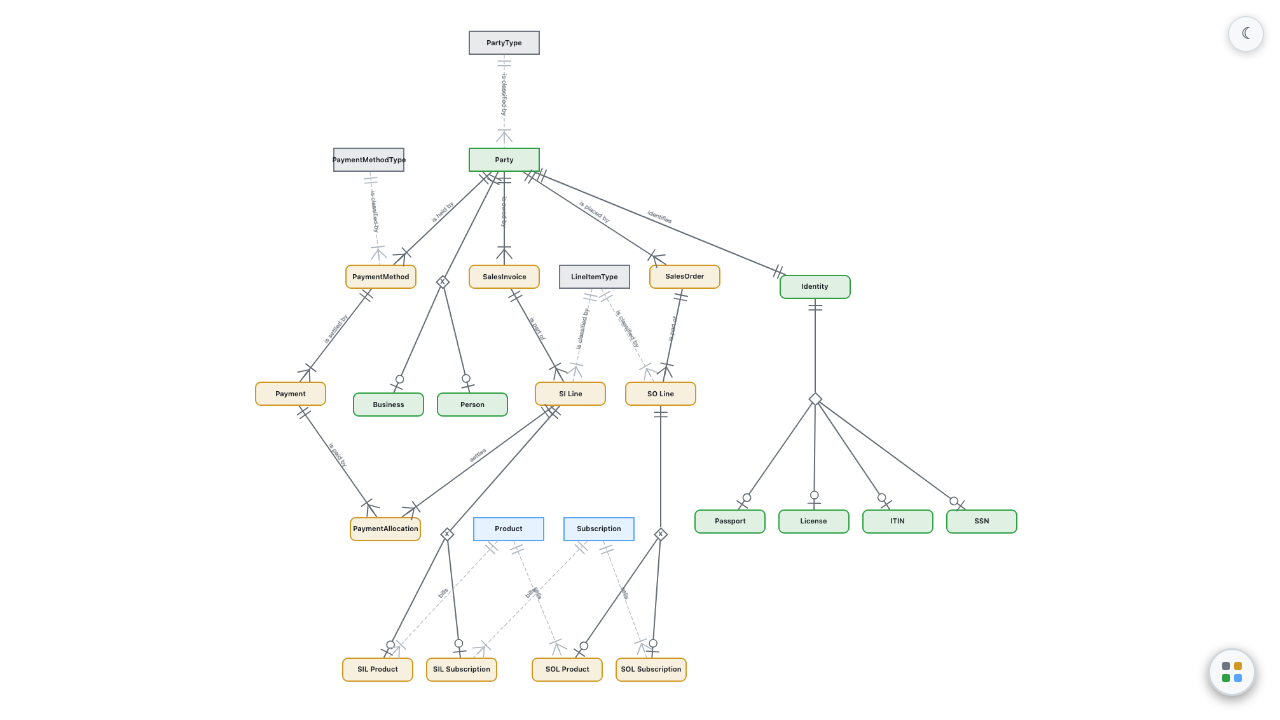
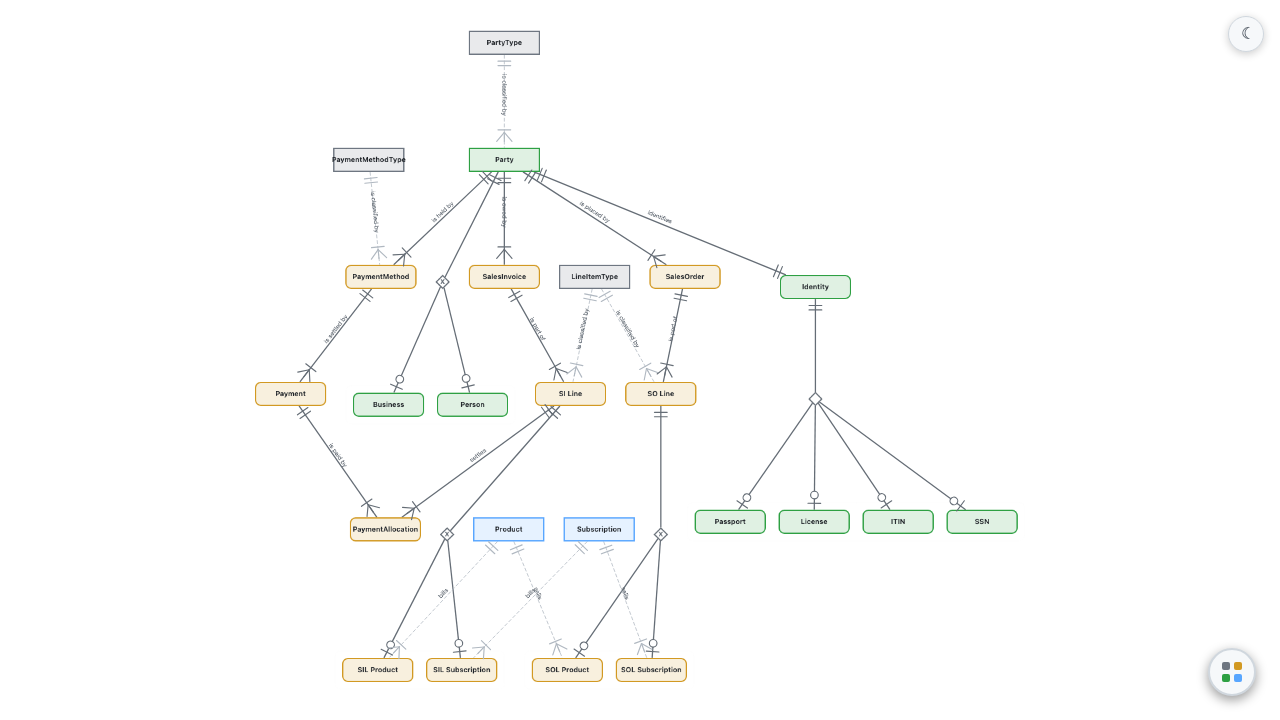
feat(cli): wire dict + graph subcommands; compile binary
Wires the dict and graph generators into the CLI's main() with
required -o (output path) and optional --theme (dark|light, default
dark) flags. Both subcommands validate their inputs and exit 1 with a
clear error on missing -o.

  derek serve <dir>
  derek dict <dir> -o out.html [--theme dark|light]
  derek graph <dir> -o out.html [--theme dark|light]

The React app bundle is embedded into the compiled binary via
src/generators/embedded-bundle.ts, which uses Bun's
`import x from "./path" with { type: "file" }` attribute. At runtime,
the embedded files are read via Bun.file(...).text(). The graph
generator now accepts either a bundleDir string (existing dev path)
or a BundleContent { html, js, css } object (new CLI path) — both
tests still pass.

Two build stages compose via package.json:

  bun run build:bundle      # bun build src/index.html → dist/static/
  bun run build:stable-names # rename index-*.js → index.js (and css)
  bun run build:cli         # all of the above + bun build --compile

Critical fix: src/server.ts replaced
`import.meta.path === Bun.main` with `import.meta.main` because in a
compiled binary all bundled modules share the same $bunfs path,
making the old guard always-true and accidentally starting a server
when running dict or graph.

7 binary tests with 17 assertions in tmp/test-cli-binary.ts confirm
all three subcommands work in the compiled binary, including
--help, missing -o exit-1 behavior, /api/model response, and graph
[…]

diff --git a/tmp/test-cli-binary.ts b/tmp/test-cli-binary.ts
@@ -1,0 +1,153 @@
+/**
+ * Integration tests for the compiled derek binary.
+ *
+ * WHY: The binary is the primary artifact of CP-7. These tests verify all three
+ * subcommands work after compile — no dev-mode fallbacks, no filesystem assumptions.
+ *
+ * Must be run AFTER `bun run build:cli` has produced ./dist/derek.
+ */
+
+import { test, expect, afterAll } from 'bun:test';
+import { existsSync } from 'fs';
+import { join } from 'path';
+
+// Resolve paths relative to the project root (worktree root is two dirs up from tmp/)
+const ROOT = join(import.meta.dir, '..');
+const BINARY = join(ROOT, 'dist', 'derek');
+const MODELS = join(ROOT, 'models');
+const OUT_DICT = join(ROOT, 'tmp', 'out-binary-dict.html');
+const OUT_GRAPH = join(ROOT, 'tmp', 'out-binary-graph.html');
+
+// ──────────────────────────────────────────────────────────────────────────────
+// Helper
+// ──────────────────────────────────────────────────────────────────────────────
+
+async function run(
+  args: string[],
+  opts: { timeoutMs?: number } = {},
+): Promise<{ exitCode: number; stdout: string; stderr: string }> {
+  const proc = Bun.spawn([BINARY, ...args], {
+    stdout: 'pipe',
+    stderr: 'pipe',
+  });
+
+  const timeoutMs = opts.timeoutMs ?? 15_000;
+  const timer = setTimeout(() => proc.kill(), timeoutMs);
+
+  const [exitCode, stdoutBuf, stderrBuf] = await Promise.all([
+    proc.exited,
+    new Response(proc.stdout).text(),
+    new Response(proc.stderr).text(),
+  ]);
+  clearTimeout(timer);
+
+  return { exitCode, stdout: stdoutBuf, stderr: stderrBuf };
+}
+
+// ──────────────────────────────────────────────────────────────────────────────
+// Sanity: binary exists
+// ──────────────────────────────────────────────────────────────────────────────
+
+test('binary exists at dist/derek', () => {
+  expect(existsSync(BINARY)).toBe(true);
+});
+
+// ──────────────────────────────────────────────────────────────────────────────
+// --help
+// ──────────────────────────────────────────────────────────────────────────────
+
+test('--help includes serve, dict, graph', async () => {
+  const { exitCode, stdout } = await run(['--help']);
+  expect(exitCode).toBe(0);
+  expect(stdout).toContain('serve');
+  expect(stdout).toContain('dict');
+  expect(stdout).toContain('graph');
+});
+
+// ──────────────────────────────────────────────────────────────────────────────
+// dict subcommand
+// ──────────────────────────────────────────────────────────────────────────────
+
+test('dict: requires -o flag, exits 1 without it', async () => {
+  const { exitCode } = await run(['dict', MODELS]);
+  expect(exitCode).toBe(1);
+});
+
+test('dict: produces HTML file with expected content', async () => {
+  const { exitCode, stderr } = await run(['dict', MODELS, '-o', OUT_DICT]);
+  if (exitCode !== 0) {
+    console.error('dict stderr:', stderr);
+  }
+  expect(exitCode).toBe(0);
+  expect(existsSync(OUT_DICT)).toBe(true);
+
+  const content = await Bun.file(OUT_DICT).text();
+  // Doctype
+  expect(content.toLowerCase()).toContain('<!doctype html>');
+  // Party entity is expected in the sample models
+  expect(content).toContain('id="entity-Party"');
+});
+
+// ──────────────────────────────────────────────────────────────────────────────
+// graph subcommand
+// ──────────────────────────────────────────────────────────────────────────────
+
+test('graph: requires -o flag, exits 1 without it', async () => {
+  const { exitCode } = await run(['graph', MODELS]);
+  expect(exitCode).toBe(1);
+});
+
+test('graph: produces HTML file with expected content', async () => {
+  const { exitCode, stderr } = await run(['graph', MODELS, '-o', OUT_GRAPH]);
+  if (exitCode !== 0) {
+    console.error('graph stderr:', stderr);
+  }
+  expect(exitCode).toBe(0);
+  expect(existsSync(OUT_GRAPH)).toBe(true);
+
+  const content = await Bun.file(OUT_GRAPH).text();
+  // Self-contained HTML
+  expect(content.toLowerCase()).toContain('<!doctype html>');
+  // Model is embedded
+  expect(content).toContain('window.__MODEL__');
+});
+
+// ──────────────────────────────────────────────────────────────────────────────
+// serve subcommand (background process)
+// ──────────────────────────────────────────────────────────────────────────────
+
+test('serve: /api/model returns 24 nodes', async () => {
+  const PORT = 3499;
+  const proc = Bun.spawn([BINARY, 'serve', MODELS, '--port', String(PORT)], {
+    stdout: 'pipe',
+    stderr: 'pipe',
+  });
+
+  // Give the server a moment to bind
+  await Bun.sleep(1500);
+
+  let model: { nodes?: unknown[] } = {};
+  try {
+    const res = await fetch(`http://localhost:${PORT}/api/model`);
+    model = await res.json() as typeof model;
+  } finally {
+    proc.kill();
+    await proc.exited;
+  }
+
+  expect(Array.isArray(model.nodes)).toBe(true);
+  expect((model.nodes as unknown[]).length).toBe(24);
+}, 20_000);
+
+// ──────────────────────────────────────────────────────────────────────────────
+// Cleanup
+// ──────────────────────────────────────────────────────────────────────────────
+
+afterAll(async () => {
+  // Remove generated output files — leave screenshots/other test artifacts alone
+  for (const f of [OUT_DICT, OUT_GRAPH]) {
+    if (existsSync(f)) {
+      await Bun.file(f).delete?.();
+    }
+  }
+});

diff --git a/src/generators/graph.ts b/src/generators/graph.ts
@@ -1,11 +1,23 @@
 import type { Model } from '../parse';
 import { join } from 'node:path';
 
-export async function generateGraph(
-  model: Model,
-  mode: 'dark' | 'light',
-  bundleDir = 'dist/static',
-): Promise<string> {
+export type BundleContent = {
+  /** Raw HTML template (the index.html with <link> and <script> tags). */
+  htmlTemplate: string;
+  /** Raw CSS content (already extracted from the bundle). */
+  cssContent: string;
+  /** Raw JS content (the full bundled module, unescaped). */
+  jsContent: string;
+};
+
+/**
+ * Load bundle content from a directory on disk.
+ *
+ * WHY: When running in development mode (bun src/cli.ts) the bundle lives in
+ * dist/static/ and we read it from disk. When running as a compiled binary the
+ * caller passes the content directly via embedBundleContent().
+ */
+export async function loadBundleFromDir(bundleDir: string): Promise<BundleContent> {
   const htmlFile = Bun.file(join(bundleDir, 'index.html'));
   const htmlTemplate = await htmlFile.text();
 
@@ -20,12 +32,34 @@ export async function generateGraph(
     throw new Error(
       `Could not find bundled JS/CSS in ${bundleDir}/index.html. ` +
       `Expected src="./index-*.js" and href="./index-*.css". ` +
-      `Run: bun build src/index.html --outdir=dist/static --minify --target=browser`
+      `Run: bun build src/index.html --outdir=dist/static --minify --target=browser`,
     );
   }
 
-  const jsRaw = await Bun.file(join(bundleDir, jsFilename)).text();
+  const jsContent = await Bun.file(join(bundleDir, jsFilename)).text();
   const cssContent = await Bun.file(join(bundleDir, cssFilename)).text();
+
+  return { htmlTemplate, cssContent, jsContent };
+}
+
+/**
+ * Generate a self-contained graph HTML file by injecting the parsed model and
+ * theme into the bundled React app.
+ *
+ * Accepts either a bundleDir (reads from disk) or explicit BundleContent
+ * (used by the compiled binary, which embeds the bundle via Bun's file imports).
+ */
+export async function generateGraph(
+  model: Model,
+  mode: 'dark' | 'light',
+  sourceOrDir: string | BundleContent = 'dist/static',
+): Promise<string> {
+  const bundle: BundleContent =
+    typeof sourceOrDir === 'string'
+      ? await loadBundleFromDir(sourceOrDir)
+      : sourceOrDir;
+
+  const { htmlTemplate, cssContent, jsContent: jsRaw } = bundle;
 
   // Escape </script> occurrences in the JS bundle so the browser HTML parser doesn't
   // prematurely close the inline <script> tag. React's source contains this string

diff --git a/src/cli.ts b/src/cli.ts
@@ -1,6 +1,10 @@
 import { resolve } from 'path';
 import { existsSync } from 'fs';
 import { serveCommand } from './server';
+import { parseModels } from './parse';
+import { generateDict } from './generators/dict';
+import { generateGraph } from './generators/graph';
+import { loadEmbeddedBundle } from './generators/embedded-bundle';
 
 export type ParsedArgs = {
   subcommand: 'serve' | 'dict' | 'graph' | 'help' | 'unknown';
@@ -89,8 +93,8 @@ Usage:
 
 Subcommands:
   serve   Start the interactive server (default port: 3000)
-  dict    Generate a static data dictionary HTML file (not implemented yet)
-  graph   Generate a static graph HTML file (not implemented yet)
+  dict    Generate a static data dictionary HTML file
+  graph   Generate a static graph HTML file
   help    Print this message
 
 Options:
@@ -117,7 +121,40 @@ async function main(): Promise<void> {
   }
 
   if (parsed.subcommand === 'dict' || parsed.subcommand === 'graph') {
-    console.log(`${parsed.subcommand}: not implemented yet`);
+    const dir = parsed.positional[0];
+
+    if (!dir) {
+      console.error(`Error: ${parsed.subcommand} requires a models directory argument.`);
+      console.error(`Usage: derek ${parsed.subcommand} <models-dir> -o <output.html>`);
+      process.exit(1);
+    }
+
+    const outputPath = parsed.flags.output;
+    if (!outputPath) {
+      console.error(`Error: -o <output.html> is required for the ${parsed.subcommand} subcommand.`);
+      process.exit(1);
+    }
+
+    const resolvedDir = resolve(dir);
+    if (!existsSync(resolvedDir)) {
+      console.error(`Error: models directory not found: ${resolvedDir}`);
+      process.exit(1);
+    }
+
+    const mode = parsed.flags.theme === 'light' ? 'light' : 'dark';
+    const model = await parseModels(resolvedDir);
+
+    let html: string;
+    if (parsed.subcommand === 'dict') {
+      html = generateDict(model, mode);
+    } else {
+      // graph: load the embedded bundle (stable index.js / index.css embedded at compile time)
+      const bundle = await loadEmbeddedBundle();
+      html = await generateGraph(model, mode, bundle);
+    }
+
+    await Bun.write(outputPath, html);
+    console.log(`Wrote ${parsed.subcommand} to ${outputPath}`);
     process.exit(0);
   }
 

diff --git a/src/generators/embedded-bundle.ts b/src/generators/embedded-bundle.ts
@@ -1,0 +1,43 @@
+/**
+ * Embedded bundle assets for the compiled derek binary.
+ *
+ * WHY: When Bun compiles a binary with `bun build --compile`, it embeds files
+ * imported with `{ type: 'file' }`. At runtime, the path resolves to an
+ * internal `$bunfs/` location — no filesystem access needed.
+ *
+ * These imports MUST point to stable file names (not content-hashed) so that
+ * `bun build --compile` can resolve them at compile time.
+ *
+ * The stable names (index.html, index.js, index.css) are produced by the
+ * build:bundle script, which copies the hashed outputs to fixed names.
+ */
+
+// @ts-ignore — Bun's `with { type: 'file' }` import attribute is not yet in
+// the TypeScript type definitions, but it works at runtime and compile time.
+import bundleHtmlPath from '../../dist/static/index.html' with { type: 'file' };
+// @ts-ignore
+import bundleJsPath from '../../dist/static/index.js' with { type: 'file' };
+// @ts-ignore
+import bundleCssPath from '../../dist/static/index.css' with { type: 'file' };
+
+import type { BundleContent } from './graph';
+
+/**
+ * Read the embedded bundle assets at runtime.
+ *
+ * When running as a dev script (bun src/cli.ts), these are real paths on disk.
+ * When running as a compiled binary, Bun rewrites them to $bunfs/ paths with the
+ * content baked in — so Bun.file().text() still works, no external files needed.
+ */
+export async function loadEmbeddedBundle(): Promise<BundleContent> {
+  // The embedded index.html still references hashed filenames in <link>/<script>
+  // tags, but we bypass those references entirely — we read the JS and CSS from
+  // the embedded stable-name files and build a synthetic template.
+  const [htmlTemplate, jsContent, cssContent] = await Promise.all([
+    Bun.file(bundleHtmlPath as string).text(),
+    Bun.file(bundleJsPath as string).text(),
+    Bun.file(bundleCssPath as string).text(),
+  ]);
+
+  return { htmlTemplate, cssContent, jsContent };
+}

diff --git a/scripts/stable-names.ts b/scripts/stable-names.ts
@@ -1,0 +1,33 @@
+/**
+ * Post-build script: copy content-hashed bundle outputs to stable file names.
+ *
+ * WHY: bun build --compile requires import paths to be known at compile time.
+ * The bundler produces hashed names like index-abc123.js. We copy them to
+ * stable names (index.js, index.css) so the CLI can embed them unconditionally.
+ *
+ * Run after `bun run build:bundle`, before `bun build --compile`.
+ */
+
+import { readdirSync, copyFileSync } from 'fs';
+import { join } from 'path';
+
+const BUNDLE_DIR = join(import.meta.dir, '..', 'dist', 'static');
+
+const files = readdirSync(BUNDLE_DIR);
+const jsFile = files.find(f => /^index-.*\.js$/.test(f));
+const cssFile = files.find(f => /^index-.*\.css$/.test(f));
+
+if (!jsFile) {
+  console.error('ERROR: No index-*.js found in dist/static. Run bun run build:bundle first.');
+  process.exit(1);
+}
+
+if (!cssFile) {
+  console.error('ERROR: No index-*.css found in dist/static. Run bun run build:bundle first.');
+  process.exit(1);
+}
+
+copyFileSync(join(BUNDLE_DIR, jsFile), join(BUNDLE_DIR, 'index.js'));
+copyFileSync(join(BUNDLE_DIR, cssFile), join(BUNDLE_DIR, 'index.css'));
+
+console.log(`Stable names written: index.js (from ${jsFile}), index.css (from ${cssFile})`);

diff --git a/src/server.ts b/src/server.ts
@@ -110,8 +110,11 @@ export function serveCommand(modelsDir: string, opts: { port?: number } = {}): R
   return server;
 }
 
-// When invoked directly (bun src/server.ts), default to ./models
-if (import.meta.path === Bun.main) {
+// When invoked directly (bun src/server.ts), default to ./models.
+// WHY import.meta.main and not import.meta.path === Bun.main: in a compiled
+// Bun binary all bundled modules share the same $bunfs path, making the path
+// comparison always true. import.meta.main is only true for the entry module.
+if (import.meta.main) {
   const defaultModelsDir = resolve(import.meta.dir, '../models');
   serveCommand(defaultModelsDir);
 }